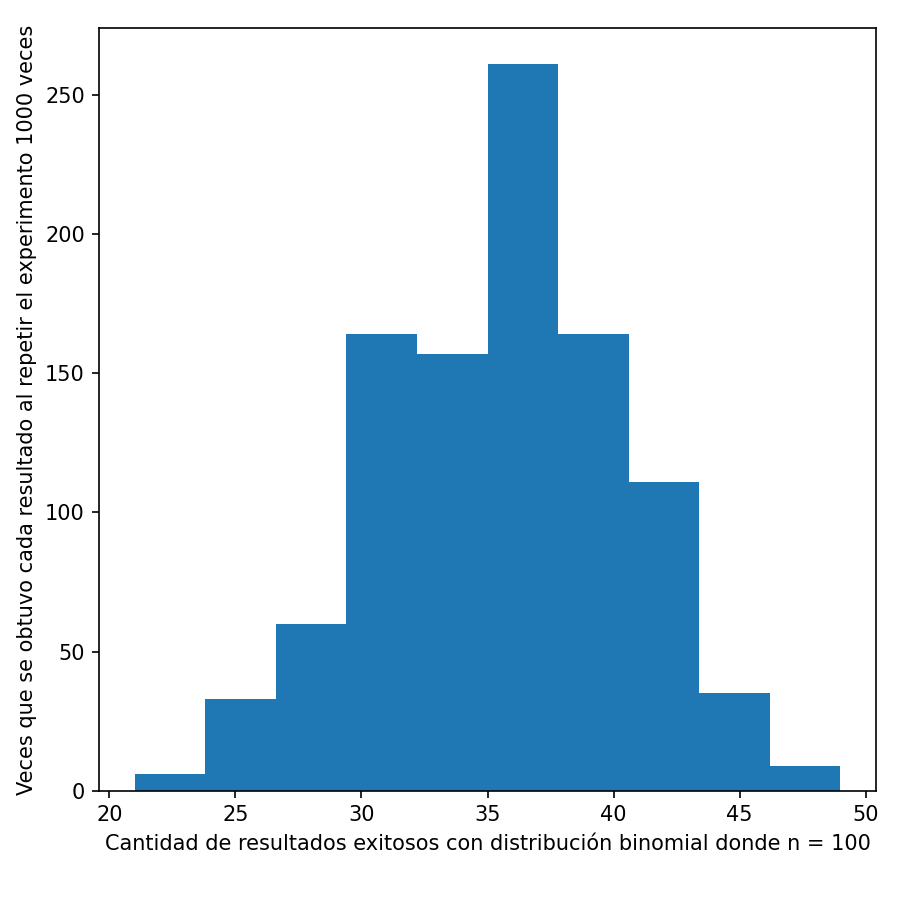
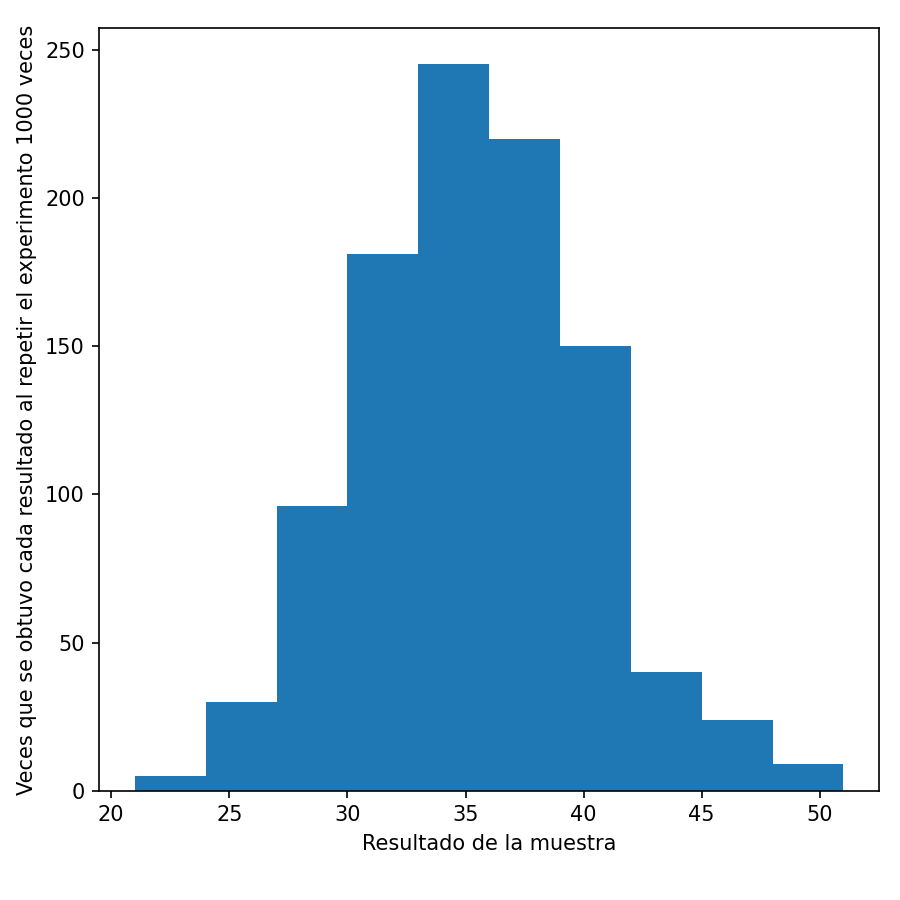
V1.2 Creo que esta todo pronto, a no ser que se quiera añadir el calculo de la esperanza teorica y varianza teorica al código. Eso lo voy a poner en el informe

diff --git a/main.py b/main.py
@@ -1,16 +1,10 @@
 from scipy.stats import binom
+from scipy.stats import geom
+from scipy.stats import poisson
 import matplotlib.pyplot as plt
 import statistics as stat
+import numpy as np
 import funciones as f
-
-def generar_histograma_binomial(array):
-    plt.hist(array)
-    plt.ylabel(f"Veces que se obtuvo cada resultado al repetir el experimento {len(array)} veces")
-    plt.xlabel("Cantidad de resultados exitosos con distribución binomial donde n = 100")
-    plt.tight_layout()
-    plt.gcf().set_size_inches(6, 6)
-    plt.savefig(f"histograma_binomial_{len(array)}", dpi=150)
-    plt.close()
 
 # BINOMIAL
 # a-) Genero muestras
@@ -23,19 +17,18 @@ data = [bin100, bin1000, bin10000, bin100000]
 
 # b-) Genero diagrama de caja
 plt.boxplot(data, vert=False, tick_labels=['100', '1000', '10000', '100000'])
-plt.ylabel("Cantidad de repeticiones")
-plt.xlabel("Resultados exitosos con distribución binomial donde n = 100 y p = 0.35")
+plt.ylabel("Tamaño de la muestra")
+plt.xlabel("Resultado de la muestra")
 plt.tight_layout()
 plt.gcf().set_size_inches(8, 5)
 plt.savefig("diagrama_caja_binomial", dpi=150)
 plt.close()
 
 # c-) Genero histogramas
-generar_histograma_binomial(bin100)
-generar_histograma_binomial(bin1000)
-generar_histograma_binomial(bin10000)
-generar_histograma_binomial(bin100000)
-
+f.generar_histograma_binomial(bin100)
+f.generar_histograma_binomial(bin1000)
+f.generar_histograma_binomial(bin10000)
+f.generar_histograma_binomial(bin100000)
 
 # d-) Calculo mediana y la moda
 print(f"Mediana de las 100 muestras con distribición binomial: {stat.median(bin100)}")
@@ -54,4 +47,104 @@ print(f"Media de las 1000 muestras con distribición binomial: {stat.mean(bin100
 print(f"Media de las 10000 muestras con distribición binomial: {stat.mean(bin10000)}")
 print(f"Media de las 100000 muestras con distribición binomial: {stat.mean(bin100000)}")
 
+# f-) Calculo varianza teorica
+print(f"Varianza teórica de las 100 muestras con distribición binomial: {np.var(bin100)}")
+print(f"Varianza teórica de las 1000 muestras con distribición binomial: {np.var(bin1000)}")
+print(f"Varianza teórica de las 10000 muestras con distribición binomial: {np.var(bin10000)}")
+print(f"Varianza teórica de las 100000 muestras con distribición binomial: {np.var(bin100000)}")
 
+
+# GEOMTRICA
+# a-) Genero muestras
+geo100 = geom.rvs(0.08, size = 100)
+geo1000 = geom.rvs(0.08, size = 1000)
+geo10000 = geom.rvs(0.08, size = 10000)
+geo100000 = geom.rvs(0.08, size = 100000)
+
+data = [geo100, geo1000, geo10000, geo100000]
+
+# b-) Genero diagrama de caja
+plt.boxplot(data, vert=False, tick_labels=['100', '1000', '10000', '100000'])
+plt.ylabel("Tamaño de la muestra")
+plt.xlabel("Resultado de las muestra")
+plt.tight_layout()
+plt.gcf().set_size_inches(8, 5)
+plt.savefig("diagrama_caja_geometrica", dpi=150)
+plt.close()
+
+# c-) Genero histogramas
+f.generar_histograma_geometrica(geo100)
+f.generar_histograma_geometrica(geo1000)
+f.generar_histograma_geometrica(geo10000)
+f.generar_histograma_geometrica(geo100000)
+
+# d-) Calculo mediana y la moda
+print(f"Mediana de las 100 muestras con distribición geométrica: {stat.median(geo100)}")
+print(f"Mediana de las 1000 muestras con distribición geométrica: {stat.median(geo1000)}")
+print(f"Mediana de las 10000 muestras con distribición geométrica: {stat.median(geo10000)}")
+print(f"Mediana de las 100000 muestras con distribición geométrica: {stat.median(geo100000)}")
+
+print(f"Moda de las 100 muestras con distribición geométrica: {stat.mode(geo100)}")
+print(f"Moda de las 1000 muestras con distribición geométrica: {stat.mode(geo1000)}")
+print(f"Moda de las 10000 muestras con distribición geométrica: {stat.mode(geo10000)}")
+print(f"Moda de las 100000 muestras con distribición geométrica: {stat.mode(geo100000)}")
+
+# e-) Calculo media
+print(f"Media de las 100 muestras con distribición geométrica: {stat.mean(geo100)}")
+print(f"Media de las 1000 muestras con distribición geométrica: {stat.mean(geo1000)}")
+print(f"Media de las 10000 muestras con distribición geométrica: {stat.mean(geo10000)}")
+print(f"Media de las 100000 muestras con distribición geométrica: {stat.mean(geo100000)}")
+
+# f-) Calculo varianza teorica
+print(f"Varianza teórica de las 100 muestras con distribición geométrica: {np.var(geo100)}")
+print(f"Varianza teórica de las 1000 muestras con distribición geométrica: {np.var(geo1000)}")
+print(f"Varianza teórica de las 10000 muestras con distribición geométrica: {np.var(geo10000)}")
+print(f"Varianza teórica de las 100000 muestras con distribición geométrica: {np.var(geo100000)}")
+
+
+# POISSON
+# a-) Genero muestras
+pois100 = poisson.rvs(30, size = 100)
+pois1000 = poisson.rvs(30, size = 1000)
+pois10000 = poisson.rvs(30, size = 10000)
+pois100000 = poisson.rvs(30, size = 100000)
+
+data = [pois100, pois1000, pois10000, pois100000]
+
+# b-) Genero diagrama de caja
+plt.boxplot(data, vert=False, tick_labels=['100', '1000', '10000', '100000'])
+plt.ylabel("Tamaño de la muestra")
+plt.xlabel("Resultado de la muestra")
+plt.tight_layout()
+plt.gcf().set_size_inches(8, 5)
+plt.savefig("diagrama_caja_poisson", dpi=150)
+plt.close()
+
+# c-) Genero histogramas
+f.generar_histograma_poisson(pois100)
+f.generar_histograma_poisson(pois1000)
+f.generar_histograma_poisson(pois10000)
+f.generar_histograma_poisson(pois100000)
+
+# d-) Calculo mediana y la moda
+print(f"Mediana de las 100 muestras con distribición poisson: {stat.median(pois100)}")
+print(f"Mediana de las 1000 muestras con distribición poisson: {stat.median(pois1000)}")
+print(f"Mediana de las 10000 muestras con distribición poisson: {stat.median(pois10000)}")
+print(f"Mediana de las 100000 muestras con distribición poisson: {stat.median(pois100000)}")
+
+print(f"Moda de las 100 muestras con distribición poisson: {stat.mode(pois100)}")
+print(f"Moda de las 1000 muestras con distribición poisson: {stat.mode(pois1000)}")
+print(f"Moda de las 10000 muestras con distribición poisson: {stat.mode(pois10000)}")
+print(f"Moda de las 100000 muestras con distribición poisson: {stat.mode(pois100000)}")
+
+# e-) Calculo media
+print(f"Media de las 100 muestras con distribición poisson: {stat.mean(pois100)}")
+print(f"Media de las 1000 muestras con distribición poisson: {stat.mean(pois1000)}")
+print(f"Media de las 10000 muestras con distribición poisson: {stat.mean(pois10000)}")
+print(f"Media de las 100000 muestras con distribición poisson: {stat.mean(pois100000)}")
+
+# f-) Calculo varianza teorica
+print(f"Varianza teórica de las 100 muestras con distribición poisson: {np.var(pois100)}")
+print(f"Varianza teórica de las 1000 muestras con distribición poisson: {np.var(pois1000)}")
+print(f"Varianza teórica de las 10000 muestras con distribición poisson: {np.var(pois10000)}")
+print(f"Varianza teórica de las 100000 muestras con distribición poisson: {np.var(pois100000)}")

diff --git a/funciones.py b/funciones.py
@@ -1,3 +1,5 @@
+import matplotlib.pyplot as plt
+import statistics as stat
 
 def calcular_media(array):
     sum = 0
@@ -33,3 +35,38 @@ def calcular_moda(array):
         if i + 1 == len(array) - 1 and max == 0:
             results.append(array[i + 1])
     return results
+
+def calcula_varianza_empirica(array):
+    sum = 0
+    media = stat.mean(array)
+    for elem in array:
+        x = (elem - media)**2
+        sum += x
+    return sum / (len(array) - 1)
+
+def generar_histograma_binomial(array):
+    plt.hist(array)
+    plt.ylabel(f"Veces que se obtuvo cada resultado al repetir el experimento {len(array)} veces")
+    plt.xlabel("Resultado de la muestra")
+    plt.tight_layout()
+    plt.gcf().set_size_inches(6, 6)
+    plt.savefig(f"histograma_binomial_{len(array)}", dpi=150)
+    plt.close()
+    
+def generar_histograma_geometrica(array):
+    plt.hist(array)
+    plt.ylabel(f"Veces que se obtuvo cada resultado al repetir el experimento {len(array)} veces")
+    plt.xlabel("Resultado de la muestra")
+    plt.tight_layout()
+    plt.gcf().set_size_inches(6, 6)
+    plt.savefig(f"histograma_geometrica_{len(array)}", dpi=150)
+    plt.close()
+
+def generar_histograma_poisson(array):
+    plt.hist(array)
+    plt.ylabel(f"Veces que se obtuvo cada resultado al repetir el experimento {len(array)} veces")
+    plt.xlabel("Resultado de la muestra")
+    plt.tight_layout()
+    plt.gcf().set_size_inches(6, 6)
+    plt.savefig(f"histograma_poisson_{len(array)}", dpi=150)
+    plt.close()
